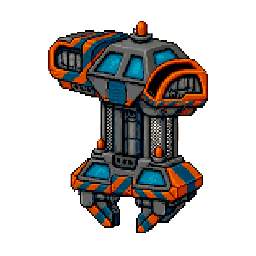
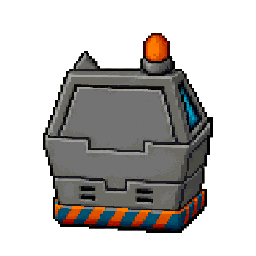
중간 보스 - 그림 없이 대장을 세운다
정본 설계는 RoomTable._midBossKey 주석에 이미 다 적혀 있었는데
BattleDirector 가 한 번도 읽지 않았다(참조 0건). 그것을 붙인다.

새 그림 0장이다. 대장은 새 패턴도 새 그림도 갖지 않는다 -
이미 있는 호스트 23명 중 하나를 키워서 세운다.
크기 1.8배 · HP 3배 · 공격력 1.4배. 자기 액티브 스킬을 그대로 쓴다.

왜 이 방이 필요한가
  원작 보스 여섯은 전부 빙의 불가다. 보스전에 들어서는 순간
  코어 루프(몸을 빼앗아 싸운다)가 통째로 끊긴다.
  이 방이 그 반대다 - 대장은 못 뺏고 부하 셋은 뺏을 수 있으니,
  부하를 빼앗아 대장을 치는 전투가 된다.

들어간 것
  · SpawnMidBoss - 부하를 다 세운 뒤에 대장을 세운다
  · 못 뺏는다 - MarkAsHostBody 를 안 부르는 것이 곧 그 규칙이다
  · 중간 보스 방은 부하가 전부 몸이다. _hostSlots 에 전 자리를 넣고
    MaxHostsPerWave 강등 루프를 건너뛴다. 한 자리라도 잡몹으로 돌리면
    "부하를 빼앗아 친다"는 구조가 무너진다
  · TickMidBoss - 부하가 다 죽으면 3초 경직. 한 번만 연다
    (부하 전멸 상태가 계속 유지되므로 매 프레임 걸면 영영 굳는다)
  · 굳어 있는 동안 적 루프에서 건너뛴다
  · 대장도 보스 체력 막대를 쓴다 - 플레이어에게 "이 방의 관문"인 점은 같다

납품 반영
  · unit_crusher_n 통과 - 차단 해제하고 반영했다
    (회색 뒷면 · 경고등 · 위험줄만, 창과 아치 없음)
  · unit_crusher_ne 반려 유지 - 각도가 반대쪽이다.
    이 프로젝트 5방향은 s -> n 으로 갈수록 얼굴이 사라진다
    (baseball 등 5방향이 다 있는 배우로 확인). ne 는 3/4 뒷모습인데
    납품본은 파란 창 둘이 정면을 보고 있어 사실상 se 와 같은 각도다

죽어 있던 규칙 하나 되살림
  IsSuperseded 에 확장자 벗기기를 넣으면서
  roomfloor_demolisher.png / roomfloor.png 비교가 영영 안 걸리게 됐다.
  확장자 없이 비교하도록 고친다.

diff --git a/Assets/Scripts/Module/InGame/BattleDirector.MidBoss.cs b/Assets/Scripts/Module/InGame/BattleDirector.MidBoss.cs
@@ -1,0 +1,132 @@
+using System.Collections.Generic;
+using Game.Character;
+using Game.Module.Events;
+using UnityEngine;
+
+namespace Game.Module.InGame
+{
+    /// <summary>
+    /// 중간 보스 — 방 005 의 **호스트 대장**.
+    ///
+    /// ── 왜 이 방이 있나 ──────────────────────────────────────────
+    /// 원작 보스 여섯은 전부 빙의 불가다. 그래서 보스전에 들어서는 순간
+    /// 이 게임의 코어 루프(몸을 빼앗아 싸운다)가 통째로 끊긴다.
+    /// **이 방이 그 반대다** — 대장은 못 뺏고 부하 셋은 뺏을 수 있으니,
+    /// 부하를 빼앗아 대장을 치는 전투가 된다. 빙의가 보스전에서 처음 성립하는 자리다.
+    ///
+    /// ── 그림이 한 장도 안 든다 ──────────────────────────────────
+    /// 대장은 새 패턴도 새 그림도 갖지 않는다. **이미 있는 호스트 23명 중 하나를
+    /// 키워서 세운다** — 크기 1.8배 · HP 3배 · 공격력 1.4배.
+    /// 자기 액티브 스킬을 그대로 쓰므로 행동도 새로 짜지 않는다.
+    ///
+    /// ── 취약 창 ─────────────────────────────────────────────────
+    /// 부하 셋을 전부 잡으면 대장이 3초 경직한다. 이것이 유일한 창이라
+    /// "부하부터 정리한다" 가 정답이 된다 — 그런데 그 부하가 곧 내 몸이므로
+    /// **마지막 한 기를 언제 죽일지**가 이 방의 선택이 된다.
+    /// </summary>
+    public sealed partial class BattleDirector
+    {
+        private const float MidBossScale = 1.8f;
+        private const int MidBossHpMul = 3;
+        private const float MidBossAtkMul = 1.4f;
+
+        /// <summary>부하를 다 잡았을 때 대장이 굳는 시간. 정본 3초.</summary>
+        private const float MidBossStunSeconds = 3f;
+
+        private Unit _midBoss;
+        private float _midBossStun;
+        private bool _midBossStunUsed;
+
+        /// <summary>지금 방에 대장이 서 있는가.</summary>
+        private bool HasMidBoss => _midBoss != null && _midBoss.IsAlive;
+
+        /// <summary>대장이 굳어 있는가. 이 동안에는 움직이지도 때리지도 않는다.</summary>
+        private bool IsMidBossStunned => _midBossStun > 0f;
+
+        private void ClearMidBoss()
+        {
+            _midBoss = null;
+            _midBossStun = 0f;
+            _midBossStunUsed = false;
+        }
+
+        /// <summary>
+        /// 대장을 세운다. 부하를 **다 세운 뒤에** 부른다 — 부하 수를 알아야
+        /// 취약 창이 언제 열리는지 셀 수 있다.
+        /// </summary>
+        private void SpawnMidBoss(RoomEntry room, IReadOnlyList<HostEntry> hosts)
+        {
+            ClearMidBoss();
+            if (room == null || !room.IsMidBoss || hosts == null) return;
+
+            // 대장의 몸은 호스트 표에서 찾는다. 없는 키면 이 방은 그냥 일반 방이 된다 —
+            // 데이터가 어긋났다고 방을 못 지나가게 만들지는 않는다.
+            HostEntry leader = null;
+            for (int i = 0; i < hosts.Count; i++)
+                if (hosts[i] != null && hosts[i].HostKey == room.MidBossKey) { leader = hosts[i]; break; }
+            if (leader == null)
+            {
+                Debug.LogWarning($"[중간보스] 호스트 표에 없는 키: {room.MidBossKey} — 대장 없이 진행한다");
+                return;
+            }
+
+            var u = NewUnit($"MidBoss_{leader.HostKey}");
+            u.Setup(UnitSide.Enemy, leader.HostKey, leader.NameKr, TrashSprite(leader),
+                    EnemyHpOf(leader) * MidBossHpMul,
+                    Mathf.RoundToInt(EnemyAtkOf(leader) * MidBossAtkMul),
+                    EnemySpeedOf(leader),
+                    EnemyRangeOf(leader),
+                    EnemyIntervalOf(leader),
+                    // 잡몹 상자(84×78)를 1.8배로 키운다. 캔버스가 아니라 **상자**를 키워야
+                    // 그림이 같은 비율로 커진다 — 여백까지 함께 늘어난다.
+                    UnitBox(84f * MidBossScale, 78f * MidBossScale),
+                    isBoss: false, profile: leader);
+
+            // 방 위쪽 가운데. 부하 셋이 그 앞에 서므로 대장이 뒤에 있어야 구도가 읽힌다.
+            u.Position = new Vector2(_roomSize.x * 0.5f, -_roomSize.y * 0.22f);
+            ClearOfCover(u);
+
+            // ⚠ **못 뺏는다.** `MarkAsHostBody` 를 부르지 않는 것이 곧 그 규칙이다.
+            //   여기서 뺏을 수 있게 하면 이 방의 전투가 통째로 사라진다.
+            u.MarkAsElite();          // 덩치 값이 아니라 "이건 관문이다" 라는 표시다
+            u.PossessPriority = 0;
+            u.PossessRange = 0f;
+            u.SetState(EnemyState.Idle);
+            u.ResetPattern();
+            ApplyFacingSprites(u, leader.SpriteKey);
+            _enemies.Add(u);
+            _midBoss = u;
+
+            // 대장도 체력 막대를 쓴다. 최종 보스와 같은 자리에 뜨는 것이 맞다 —
+            // 플레이어에게는 "이 방의 관문" 이라는 점이 같다.
+            _bus.Publish(new BossHpChangedEvent { BossHp = u.Hp, BossHpMax = u.HpMax, Phase = 1 });
+            Debug.Log($"[중간보스] {leader.NameKr} HP {u.Hp} 공격 {u.Atk} — 부하를 다 잡으면 {MidBossStunSeconds}초 경직");
+        }
+
+        /// <summary>
+        /// 부하가 다 죽었는지 보고 취약 창을 연다.
+        ///
+        /// ⚠ **한 번만 연다.** 부하가 다 죽은 상태가 계속 유지되므로,
+        ///   매 프레임 다시 걸면 대장이 영영 굳어 있게 된다.
+        /// </summary>
+        private void TickMidBoss(float dt)
+        {
+            if (_midBossStun > 0f) _midBossStun -= dt;
+            if (!HasMidBoss || _midBossStunUsed) return;
+
+            for (int i = 0; i < _enemies.Count; i++)
+            {
+                var e = _enemies[i];
+                if (e == null || e == _midBoss) continue;
+                if (e.IsAlive && !e.IsDying) return;   // 아직 부하가 남았다
+            }
+
+            _midBossStunUsed = true;
+            _midBossStun = MidBossStunSeconds;
+            _midBoss.SetMoving(false);
+            _midBoss.SetState(EnemyState.Idle);
+            _midBoss.PlayHit();   // 굳는 순간이 보여야 "지금이다" 가 읽힌다
+            Debug.Log($"[중간보스] 부하 전멸 — {MidBossStunSeconds}초 경직");
+        }
+    }
+}

diff --git a/Assets/Scripts/Module/InGame/BattleDirector.cs b/Assets/Scripts/Module/InGame/BattleDirector.cs
@@ -525,8 +525,14 @@ namespace Game.Module.InGame
             //
             // 그래서 아래 두 값 사이로 조인다. 부족하면 승격하고, 넘치면 잡몹으로 돌린다.
             _hostSlots.Clear();
-            for (int i = 0; i < spawns.Count; i++)
-                if (spawns[i].IsPossessionTarget) _hostSlots.Add(i);
+            // ⚠ 중간 보스 방은 **부하가 전부 몸**이다.
+            //   정본: "대장은 못 뺏고 부하는 뺏을 수 있으니, 부하를 빼앗아 대장을 치는
+            //   전투가 된다." 여기서 한 자리라도 잡몹으로 돌리면 그 구조가 무너진다.
+            if (room.IsMidBoss)
+                for (int i = 0; i < spawns.Count; i++) _hostSlots.Add(i);
+            else
+                for (int i = 0; i < spawns.Count; i++)
+                    if (spawns[i].IsPossessionTarget) _hostSlots.Add(i);
 
             if (_hostSlots.Count == 0)
             {
@@ -541,7 +547,7 @@ namespace Game.Module.InGame
                 }
                 if (at >= 0) _hostSlots.Add(at);
             }
-            else while (_hostSlots.Count > MaxHostsPerWave)
+            else while (!room.IsMidBoss && _hostSlots.Count > MaxHostsPerWave)
             {
                 // 강등 — 우선순위가 가장 낮은 자리부터 잡몹으로 돌린다.
                 int worst = 0, worstPri = int.MaxValue;
@@ -616,6 +622,7 @@ namespace Game.Module.InGame
                 _enemies.Add(u);
             }
             EnsureHostBodies();
+            SpawnMidBoss(room, hosts);
 
             // 방마다 무엇이 섰는지 한 줄로 남긴다. "적용이 안 된 것 같다" 는 말을
             // 추측으로 되받지 않으려면, 화면 대신 콘솔이 답하게 해야 한다.
@@ -2660,6 +2667,7 @@ namespace Game.Module.InGame
             TickSkillEffect(dt);
             TickBreak(dt);
             // 보스가 벽 뒤·구멍 안·천장에 있는 동안은 못 때린다. 그 주기를 여기서 돌린다.
+            TickMidBoss(dt);       // 부하가 다 죽으면 대장이 3초 굳는다
             TickBossPresence(dt);
             TickConveyor(dt);      // 벨트는 패턴이 끝난 뒤에도 12초 더 돈다
             TickOrbitLinger(dt);   // 파괴구는 때린 뒤에도 잠깐 더 돈다
@@ -3185,6 +3193,10 @@ namespace Game.Module.InGame
                 //   기준점은 `Avatar` 다 — 몸이 있으면 그 몸, 없으면 유령.
                 //   보스는 "지금 내가 서 있는 자리" 를 겨눈다.
                 if (e.IsBoss) { TickBoss(e, Avatar, dt); continue; }
+
+                // 부하를 다 잃은 대장은 3초 굳는다. 이 방의 유일한 취약 창이라
+                // 여기서 계속 때리면 창이 창이 아니게 된다.
+                if (e == _midBoss && IsMidBossStunned) { e.SetMoving(false); continue; }
 
                 // ⚠ **몸이 없으면 아무도 유령을 표적으로 잡지 않는다.**
                 if (_host == null)

diff --git a/Assets/Scripts/Editor/ExchangeImporter.cs b/Assets/Scripts/Editor/ExchangeImporter.cs
@@ -132,16 +132,16 @@ namespace Game.EditorTools
             //   (`roomfloor_python` 때와 같다 — 아래 참조).
             if (name == "unit_crusher_s") return true;
 
-            // 62차 크러셔 방향 두 장(`ne`·`n`)도 **그 폐기본을 보고 그렸다.**
-            // 색 구성을 재면 폐기본과 같은 계열이고 정본 정면과 다르다:
-            //   현재 정면 s   주황 17.9% · 파랑 11.0%
-            //   폐기 61차 s   주황 14.8% · 파랑  4.8%
-            //   납품 ne       주황 14.5% · 파랑  4.9%   ← 폐기본 쪽이다
-            //   납품 n        주황 14.4% · 파랑  0.1%
-            // 이대로 넣으면 보스가 **돌 때마다 다른 기계로 변한다.**
+            // 62차 크러셔 `ne` 는 **각도가 반대쪽**이다.
             //
-            // ⚠ 정면 기준으로 다시 받으면 이 두 줄을 지운다.
-            if (name == "unit_crusher_ne" || name == "unit_crusher_n") return true;
+            // 이 프로젝트의 5방향은 `s → n` 으로 갈수록 얼굴이 사라진다
+            // (`baseball` 등 5방향이 다 있는 배우로 확인). 즉 `ne` 는 **3/4 뒷모습**인데,
+            // 납품본은 파란 창 둘이 정면을 보고 있어 사실상 `se` 와 같은 각도다.
+            //
+            // `n`(정후면)은 통과해서 안 막는다 — 회색 뒷면·경고등·위험줄만 남았다.
+            //
+            // ⚠ `ne` 를 다시 받으면 이 줄을 지운다.
+            if (name == "unit_crusher_ne") return true;
 
             // 방 바닥은 `BundleResource/RoomFloor/` 가 정본이다. `BaseResource` 쪽 사본은
             // 아틀라스에 들어가 자리만 먹었다.
@@ -151,7 +151,9 @@ namespace Game.EditorTools
             //   58차에서 720×936 으로 다시 받으면서 **그 두 장이 정본이 됐다.**
             //   규칙을 남겨 두면 새 정본이 영영 안 들어온다 — 실제로 4장만 반영됐다.
             //   막는 이유가 사라지면 규칙도 같이 지운다.
-            if (name == "roomfloor_demolisher.png" || name == "roomfloor.png") return true;
+            // ⚠ 위에서 확장자를 벗기므로 여기도 확장자 없이 비교한다.
+            //   `.png` 를 붙여 두면 영영 안 걸린다 — 실제로 한동안 죽어 있었다.
+            if (name == "roomfloor_demolisher" || name == "roomfloor") return true;
 
             // 컨셉 시안은 **고를 때 보는 그림**이지 게임 에셋이 아니다.
             // 고른 것은 `roomfloor_env_*` 로 따로 들어간다.
